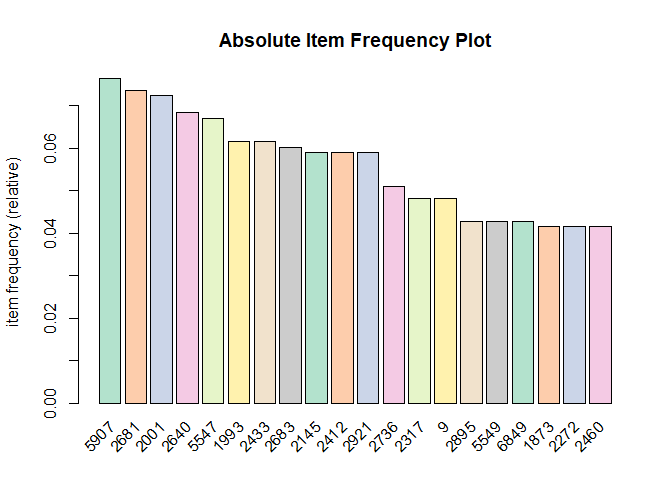
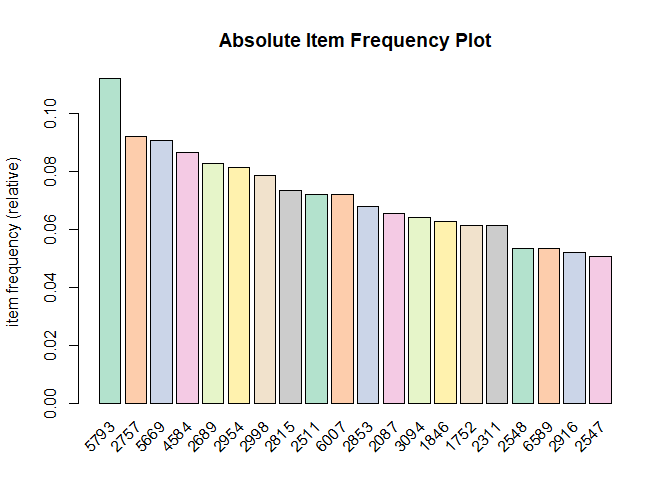
yeah

diff --git a/README.md b/README.md
@@ -35,9 +35,10 @@ library(readxl)
 An overview of the iperbole dataset, downloadable here: <http://dati.comune.bologna.it/node/640>
 
 <center>
-<img src="http://github.com/alessandrofesti/SPA/tree/master/Images/0.png" width="90%" />
 </center>
-<br/> The R package 'reticulate' helps us integrating the Python language in the R environment. In the Iperbole dataset there are not latitude and longitude coordinates for the commercial activities in Bologna. We can get them using the geographic information we already have and geocoding it through the Mapbox API's using Python. Then the general analysis is implemented using R. <br/>
+![0](Images/0.png) <br/>
+
+The R package 'reticulate' helps us integrating the Python language in the R environment. In the Iperbole dataset there are not latitude and longitude coordinates for the commercial activities in Bologna. We can get them using the geographic information we already have and geocoding it through the Mapbox API's using Python. Then the general analysis is implemented using R. <br/>
 
 ``` r
 library(reticulate)
@@ -87,7 +88,9 @@ geocoded <- dplyr::distinct(geocoded, lat, lon, .keep_all = TRUE)
 
 <br/> Having obtained thir lat/lon coordinates, the position of the commercial activities in Bologna are plotted using Tableau <br/>
 <center>
-<img src="C:\Users\Alessandro\Desktop\MapBologna.png" width="90%" />
+</center>
+<center>
+![0](Images/1.png)
 </center>
 <br/>
 
@@ -122,16 +125,16 @@ head(path_vis,10)
 ```
 
     ##         lon      lat path ind
-    ## 1  11.34135 44.48965    1   1
-    ## 2  11.33560 44.48391    1   1
-    ## 3  11.34226 44.49056    1   1
-    ## 4  11.33359 44.48190    1   1
-    ## 5  11.34292 44.49122    1   1
-    ## 6  11.34101 44.48931    1   1
-    ## 7  11.34370 44.49201    1   1
-    ## 8  11.33761 44.48591    1   1
-    ## 9  11.34011 44.48842    1   1
-    ## 10 11.33975 44.48805    1   1
+    ## 1  11.35349 44.49532    1   1
+    ## 2  11.34565 44.48749    1   1
+    ## 3  11.34353 44.48536    1   1
+    ## 4  11.34690 44.48873    1   1
+    ## 5  11.34272 44.48455    1   1
+    ## 6  11.35194 44.49377    1   1
+    ## 7  11.34790 44.48973    1   1
+    ## 8  11.34061 44.48245    1   1
+    ## 9  11.34571 44.48754    1   1
+    ## 10 11.34886 44.49069    1   1
 
 <br/> Then, in order to infer if a person was at a certain activity, the individual positions are matched with the positions of the geocoded commercial activities in Bologna on the basis of an arbitrary minimum distance(Euclidean distance).
 
@@ -168,12 +171,12 @@ head(result)
 ```
 
     ##        lon      lat         dist path ind
-    ## 1 11.34104 44.48999 0.0004532853    1   1
-    ## 2       NA       NA 0.0025628323    1   1
-    ## 3       NA       NA 0.0007576385    1   1
-    ## 4       NA       NA 0.0034729058    1   1
-    ## 5       NA       NA 0.0005741918    1   1
-    ## 6       NA       NA 0.0005056982    1   1
+    ## 1 11.35381 44.49555 3.918118e-04    1   1
+    ## 2       NA       NA 5.935997e-04    1   1
+    ## 3       NA       NA 2.241884e-03    1   1
+    ## 4       NA       NA 6.356600e-04    1   1
+    ## 5       NA       NA 3.329103e-03    1   1
+    ## 6 11.35191 44.49382 5.586108e-05    1   1
 
 <font size = '2'> Adjusting the dataset for the association rules discovery eliminating the non-matched observations </font>
 
@@ -183,12 +186,12 @@ head(result)
 ```
 
     ##         lon      lat         dist path ind
-    ## 1  11.34104 44.48999 0.0004532853    1   1
-    ## 7  11.34412 44.49213 0.0004364515    1   1
-    ## 12 11.34299 44.49179 0.0004977824    1   1
-    ## 19 11.34095 44.48881 0.0004851239    1   1
-    ## 20 11.34730 44.49525 0.0003898361    1   1
-    ## 23 11.34184 44.48993 0.0002919664    2   1
+    ## 1  11.35381 44.49555 3.918118e-04    1   1
+    ## 6  11.35191 44.49382 5.586108e-05    1   1
+    ## 11 11.34732 44.48925 3.375501e-04    1   1
+    ## 14 11.35097 44.49251 4.641712e-04    1   1
+    ## 15 11.35097 44.49251 4.544435e-04    1   1
+    ## 21 11.34480 44.48720 4.013597e-04    2   1
 
 Merging process to retrieve the index of the matched company
 
@@ -201,16 +204,16 @@ head(final,10)
 ```
 
     ##         lon      lat   ID         dist path ind itemset_id
-    ## 1  11.32442 44.49021 3635 3.931014e-04    3  46       46 3
-    ## 2  11.32442 44.49021 3635 2.088684e-04   13  46      46 13
-    ## 3  11.32442 44.49021 3635 1.665054e-04   15  46      46 15
-    ## 4  11.32452 44.49023 3663 1.088892e-04   14  46      46 14
-    ## 5  11.32452 44.49023 3663 4.111399e-04    5  46       46 5
-    ## 6  11.32452 44.49023 3663 7.369655e-05    4  46       46 4
-    ## 7  11.32452 44.49023 3663 2.809274e-04    5  46       46 5
-    ## 8  11.32527 44.49025 3654 4.796866e-04    4  46       46 4
-    ## 9  11.32527 44.49025 3654 4.683413e-04   14  46      46 14
-    ## 10 11.32527 44.49025 3654 4.827189e-04   15  46      46 15
+    ## 1  11.32825 44.49041 6872 0.0004577361    4  31       31 4
+    ## 2  11.32834 44.48821 3561 0.0004020383    6  28       28 6
+    ## 3  11.32834 44.48821 3561 0.0003613516    5  28       28 5
+    ## 4  11.32834 44.48821 3561 0.0003853404    4  28       28 4
+    ## 5  11.32834 44.48821 3561 0.0003648597   15  28      28 15
+    ## 6  11.32834 44.48821 3561 0.0001833690    2   3        3 2
+    ## 7  11.32834 44.48821 3561 0.0004016086    5  28       28 5
+    ## 8  11.32834 44.48821 3561 0.0003653974    3  28       28 3
+    ## 9  11.32834 44.48821 3561 0.0004414480    8  28       28 8
+    ## 10 11.32834 44.48821 3561 0.0004571947    4  28       28 4
 
 Then one needs to transform the data into a transaction dataset
 
@@ -255,11 +258,11 @@ association.rules <- arules::apriori(tr, parameter = list(supp=0.01, conf=0.3,ma
     ## Absolute minimum support count: 7 
     ## 
     ## set item appearances ...[0 item(s)] done [0.00s].
-    ## set transactions ...[2046 item(s), 751 transaction(s)] done [0.00s].
-    ## sorting and recoding items ... [281 item(s)] done [0.00s].
+    ## set transactions ...[2057 item(s), 750 transaction(s)] done [0.00s].
+    ## sorting and recoding items ... [279 item(s)] done [0.00s].
     ## creating transaction tree ... done [0.00s].
-    ## checking subsets of size 1 2 3 4 done [0.00s].
-    ## writing ... [1871 rule(s)] done [0.00s].
+    ## checking subsets of size 1 2 3 4 5 done [0.00s].
+    ## writing ... [2047 rule(s)] done [0.00s].
     ## creating S4 object  ... done [0.00s].
 
 ``` r
@@ -267,16 +270,16 @@ inspect(association.rules[1:10])
 ```
 
     ##      lhs       rhs    support    confidence lift     count
-    ## [1]  {2144} => {2102} 0.01065246 0.8888889  33.37778  8   
-    ## [2]  {2102} => {2144} 0.01065246 0.4000000  33.37778  8   
-    ## [3]  {2144} => {2521} 0.01065246 0.8888889  17.56725  8   
-    ## [4]  {1584} => {1856} 0.01065246 0.8000000  50.06667  8   
-    ## [5]  {1856} => {1584} 0.01065246 0.6666667  50.06667  8   
-    ## [6]  {5513} => {2521} 0.01331558 1.0000000  19.76316 10   
-    ## [7]  {1696} => {2130} 0.01065246 0.8000000  26.12174  8   
-    ## [8]  {2130} => {1696} 0.01065246 0.3478261  26.12174  8   
-    ## [9]  {6855} => {2317} 0.01065246 0.6666667  17.26437  8   
-    ## [10] {3259} => {3149} 0.01065246 0.6666667  18.54321  8
+    ## [1]  {1409} => {1649} 0.01066667 0.8888889  51.28205  8   
+    ## [2]  {1649} => {1409} 0.01066667 0.6153846  51.28205  8   
+    ## [3]  {6738} => {1776} 0.01066667 0.8000000  54.54545  8   
+    ## [4]  {1776} => {6738} 0.01066667 0.7272727  54.54545  8   
+    ## [5]  {6738} => {1649} 0.01200000 0.9000000  51.92308  9   
+    ## [6]  {1649} => {6738} 0.01200000 0.6923077  51.92308  9   
+    ## [7]  {1776} => {1649} 0.01333333 0.9090909  52.44755 10   
+    ## [8]  {1649} => {1776} 0.01333333 0.7692308  52.44755 10   
+    ## [9]  {1184} => {1533} 0.01066667 1.0000000  25.86207  8   
+    ## [10] {5462} => {3209} 0.01066667 1.0000000  41.66667  8
 
 ``` r
 plot(association.rules, method = "two-key plot")
@@ -311,19 +314,19 @@ head(final_cat)
 ```
 
     ##         lon      lat                     Commercial type         dist path
-    ## 11 11.32724 44.49036             prodotti ortofrutticoli 0.0003181488   15
-    ## 12 11.32724 44.49036             prodotti ortofrutticoli 0.0002307451   10
-    ## 58 11.32918 44.49045 Tabacco e altri generi di monopolio 0.0004924821    6
-    ## 59 11.32918 44.49045 Tabacco e altri generi di monopolio 0.0004252687    7
-    ## 60 11.32918 44.49045 Tabacco e altri generi di monopolio 0.0004423691    6
-    ## 61 11.32918 44.49045 Tabacco e altri generi di monopolio 0.0004637482   15
+    ## 15 11.32918 44.49045 Tabacco e altri generi di monopolio 0.0003147564    6
+    ## 16 11.32918 44.49045 Tabacco e altri generi di monopolio 0.0003730165    9
+    ## 17 11.32918 44.49045 Tabacco e altri generi di monopolio 0.0004194769   14
+    ## 18 11.32918 44.49045 Tabacco e altri generi di monopolio 0.0001991561    6
+    ## 19 11.32978 44.49097 Articoli per l'igiene della persona 0.0001661084    5
+    ## 20 11.32978 44.49097 Articoli per l'igiene della persona 0.0003595585    3
     ##    ind itemset_id
-    ## 11  47      47 15
-    ## 12  47      47 10
-    ## 58  36       36 6
-    ## 59  36       36 7
-    ## 60  36       36 6
-    ## 61  48      48 15
+    ## 15  31       31 6
+    ## 16  31       31 9
+    ## 17  31      31 14
+    ## 18  29       29 6
+    ## 19  29       29 5
+    ## 20  31       31 3
 
 ``` r
 transactionData_cat <- ddply(final_cat,c("itemset_id"),
@@ -340,8 +343,9 @@ itemFrequencyPlot(tr_cat,topN=10,type="relative",col=brewer.pal(8,'Pastel2'), ma
 ![](README_files/figure-markdown_github/unnamed-chunk-11-1.png) <br/> The positions of the commercial activities in Bologna are then plotted using Tableau according to their sector.
 
 <center>
-<img src="C:\Users\Alessandro\Desktop\MapBolognaByCategory.png" width="90%" />
 </center>
+![0](Images/2.png)
+
 <br/> Performing the Market Basket Analysis through the apriori algorithm on the sector
 
 ``` r
@@ -363,23 +367,23 @@ association.rules_cat <- arules::apriori(tr_cat, parameter = list(supp=0.03, con
     ## Absolute minimum support count: 22 
     ## 
     ## set item appearances ...[0 item(s)] done [0.00s].
-    ## set transactions ...[1658 item(s), 745 transaction(s)] done [0.00s].
-    ## sorting and recoding items ... [34 item(s)] done [0.00s].
+    ## set transactions ...[1656 item(s), 737 transaction(s)] done [0.00s].
+    ## sorting and recoding items ... [29 item(s)] done [0.00s].
     ## creating transaction tree ... done [0.00s].
     ## checking subsets of size 1 2 3 done [0.00s].
-    ## writing ... [15 rule(s)] done [0.00s].
+    ## writing ... [12 rule(s)] done [0.00s].
     ## creating S4 object  ... done [0.00s].
 
 ``` r
 inspect(association.rules_cat[1:5])
 ```
 
-    ##     lhs                                rhs                            support confidence     lift count
-    ## [1] {Biancheria per la casa}        => {Abbigliamento}             0.03489933  0.9285714 2.931295    26
-    ## [2] {Mobili}                        => {Abbigliamento e accessori} 0.03892617  0.6041667 1.428902    29
-    ## [3] {Cartoleria}                    => {Abbigliamento e accessori} 0.04697987  0.5645161 1.335125    35
-    ## [4] {Pane - pasticceria - dolciumi} => {Abbigliamento}             0.04295302  0.5714286 1.803874    32
-    ## [5] {Pane - pasticceria - dolciumi} => {Abbigliamento e accessori} 0.04429530  0.5892857 1.393707    33
+    ##     lhs                            rhs                            support confidence     lift count
+    ## [1] {Profumeria}                => {Abbigliamento e accessori} 0.04070556  0.7500000 1.738208    30
+    ## [2] {Strumenti musicali dischi} => {Abbigliamento e accessori} 0.03527815  0.5909091 1.369497    26
+    ## [3] {Mobili}                    => {Oggetti preziosi}          0.04206242  0.5438596 3.485431    31
+    ## [4] {Mobili}                    => {Abbigliamento e accessori} 0.04206242  0.5438596 1.260455    31
+    ## [5] {Libri}                     => {Abbigliamento e accessori} 0.04477612  0.5000000 1.158805    33
 
 ``` r
 plot(association.rules_cat, method = "graph")
